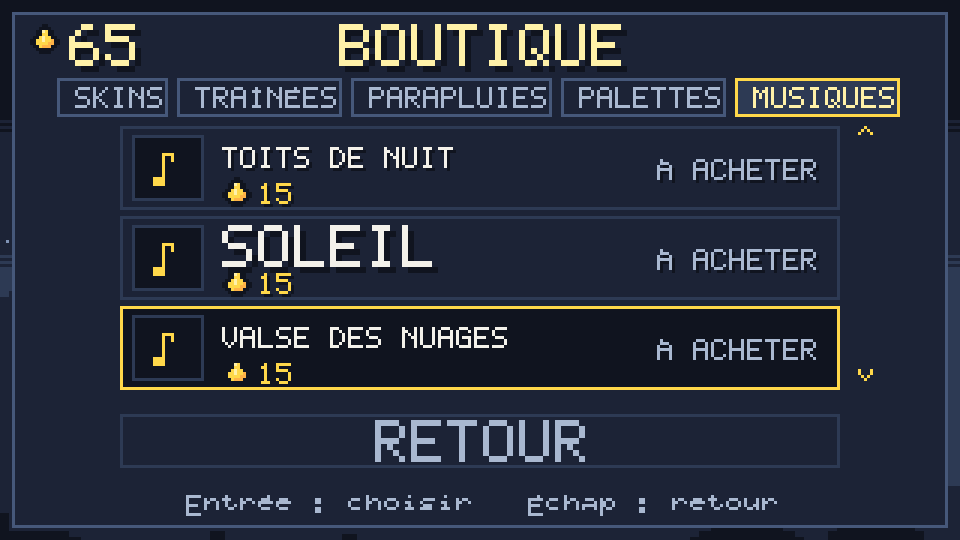
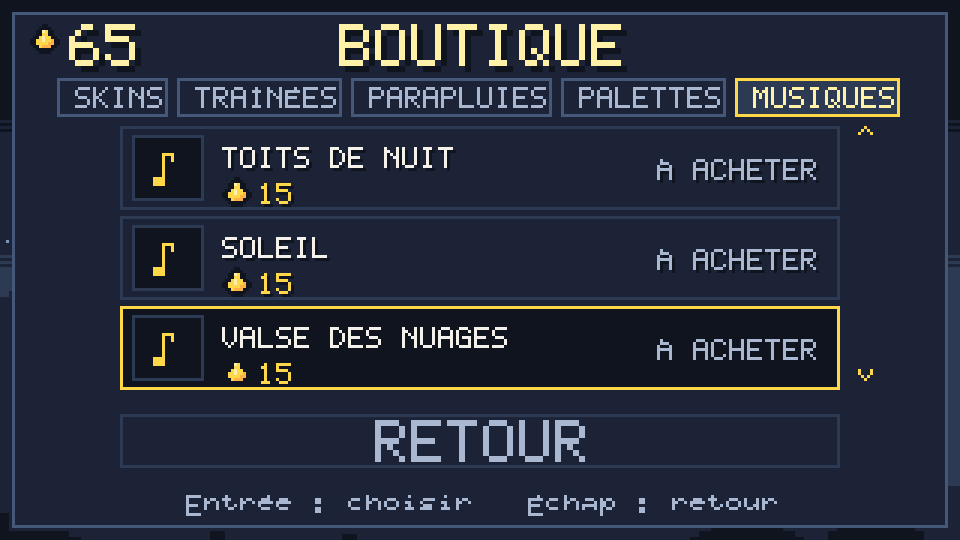
Carte 7.6 : boutique, une seule taille de nom par onglet (captures boutique refaites)

Changed region(s): [[0.2188, 0.4148, 0.4688, 0.5037]]

diff --git a/game/src/ecrans/boutique.rs b/game/src/ecrans/boutique.rs
@@ -210,6 +210,15 @@ pub fn dessiner(banque: &Banque, anim: u32, s: &Sauvegarde, e: &EtatBoutique) {
     let skin = Skin::depuis_id(&s.skin_choisi).unwrap_or_default();
     let nb = e.objets.len();
     let debut = premiere_visible(e.menu.selection(), nb);
+    // Une seule taille de nom par onglet : l'échelle 2 si TOUS les noms de l'onglet
+    // y tiennent, sinon l'échelle 1 pour tous (sinon SOLEIL en grand entre deux
+    // petits noms, ce qui fait désordre).
+    let place_nom =
+        rect_ligne(0).2 - 34.0 - 8.0 - largeur_texte(contenu::ETAT_A_ACHETER, 1) as f32 - 6.0;
+    let grand = e
+        .objets
+        .iter()
+        .all(|o| largeur_texte(o.nom, 2) as f32 <= place_nom);
     for (k, objet) in e.objets.iter().enumerate().skip(debut).take(MAX_VISIBLES) {
         let r @ (x, y, w, _) = rect_ligne(k - debut);
         cadre(r, k == e.menu.selection());
@@ -243,9 +252,8 @@ pub fn dessiner(banque: &Banque, anim: u32, s: &Sauvegarde, e: &EtatBoutique) {
             #[cfg(any(test, feature = "debug_niveaux"))]
             Apercu::Factice => banque.dessiner("goutte0", x + 11.0, y + 9.0, false),
         }
-        // Nom à l'échelle 2, ou 1 s'il déborderait sur l'état (VALSE DES NUAGES…).
-        let place = w - 34.0 - 8.0 - largeur_texte(contenu::ETAT_A_ACHETER, 1) as f32 - 6.0;
-        if largeur_texte(objet.nom, 2) as f32 <= place {
+        // Nom à l'échelle choisie pour tout l'onglet (`grand`, plus haut).
+        if grand {
             texte::dessiner(objet.nom, x + 34.0, y + 3.0, ombre(BLANC_CASSE, 2));
         } else {
             texte::dessiner(objet.nom, x + 34.0, y + 7.0, ombre(BLANC_CASSE, 1));
